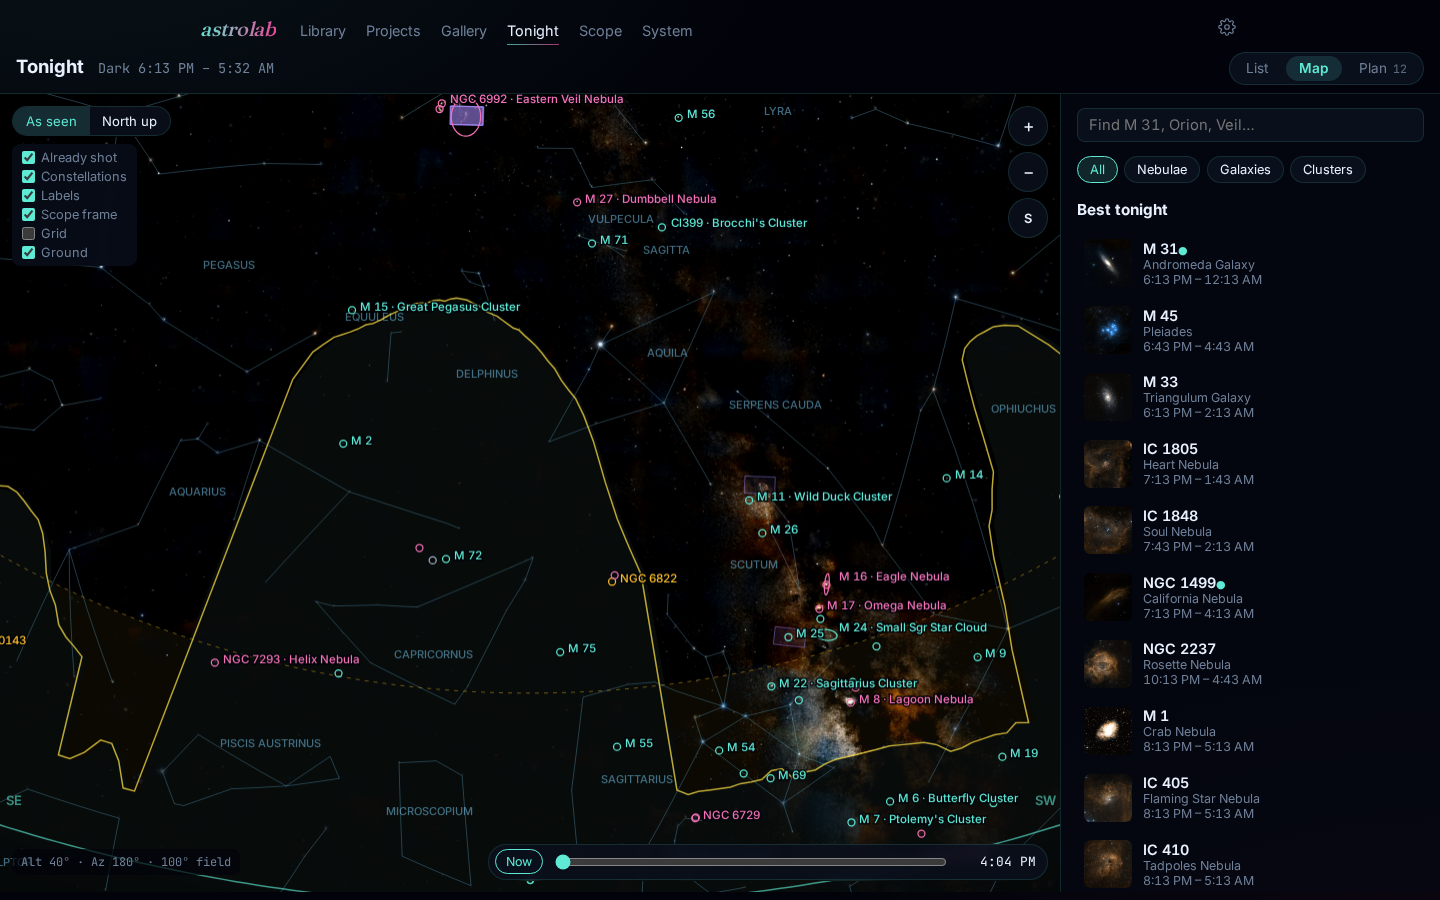
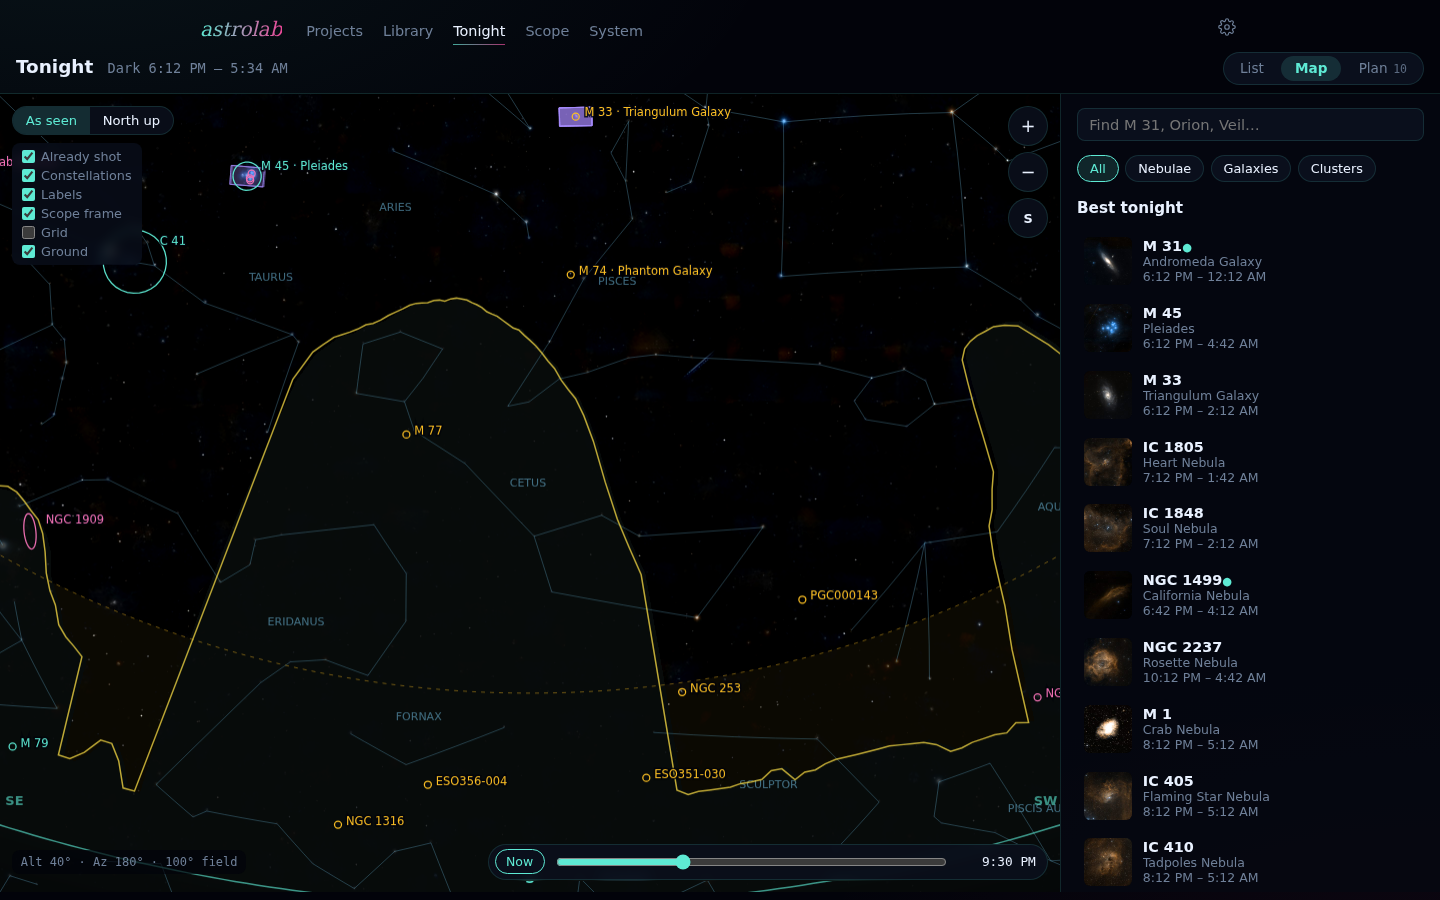
README: new screenshots and text for the editor, Library and Projects
The Processing section describes the editor (Looks, instant preview,
versions) instead of the old Quick sliders. Adds Library and editor
screenshots, retakes Projects and the sky map. Also keeps tall pictures
from stretching Last night cards.

diff --git a/ui/src/lib/LastNight.svelte b/ui/src/lib/LastNight.svelte
@@ -224,8 +224,12 @@
     display: block;
     aspect-ratio: 4 / 3;
     background: var(--bg-elev-2);
+    overflow: hidden;
   }
   .pic img {
+    /* Out of flow, so a tall picture can't stretch the 4:3 box. */
+    position: absolute;
+    inset: 0;
     width: 100%;
     height: 100%;
     object-fit: cover;

diff --git a/README.md b/README.md
@@ -12,7 +12,7 @@ astrolab is a self-hosted web app I use to run a DWARF 3 that sits outside on a 
 
 The scope connection goes through a small relay service ([dwarf-relay](https://github.com/bscholer/dwarf-relay)), so the DWARF 3 is the only scope it can control right now. Processing works on FITS files from other capture programs too (see [Other scopes](#other-scopes)).
 
-<img src="docs/screenshots/last-night.png" alt="Home page: last night's card with good, rescued and junk time per target, and before/after sliders for updated masters" width="720" />
+<img src="docs/screenshots/projects.png" alt="Projects page: last night's totals and what each target's master gained, above a grid of project pictures" width="720" />
 
 ## Capture
 
@@ -40,15 +40,19 @@ Each night is calibrated with matching darks, flats and bias, plate solved again
 
 The Projects page opens with how last night went: what each target added to its master. Each master's Details tab estimates how many more hours it would take to cut the noise by a third, and that estimate goes back into the plan.
 
+<img src="docs/screenshots/library.png" alt="Library page: a card per target with its newest picture, total integration, sessions and the share of frames kept" width="720" />
+
+The Library page has a card per target with its total time and how many frames were kept. A card opens the target's sessions, where you can start a new project from any of them. The Storage tab shows what's taking up space on the NAS.
+
 ## Processing
 
-<img src="docs/screenshots/project.png" alt="Project page: Triangulum Galaxy master with Quick sliders and the history strip" width="720" />
+<img src="docs/screenshots/editor.png" alt="Editor: California Nebula with palette and style cards rendered on the picture itself" width="720" />
 
-Each target opens with a handful of sliders: brightness, dark sky, noise reduction, color strength, green removal and stars. There's also HOO color for duo-band data and a crop tool. GraXpert handles gradient removal and denoising, and StarNet++ shrinks or removes stars.
+Each project opens in an editor with six tools: Looks, Crop, Light, Color, Detail and Versions. Looks are one-tap starting points, each shown on your own picture. Duo-band data gets color palettes (HOO, gold and azure, and a few more), and every target gets styles like Vivid or Faint detail. The other tools have a few sliders each: brightness, background, contrast, highlights and shadows; H-alpha and OIII colors and saturation; stars, sharpening and noise reduction. GraXpert handles gradient removal and denoising, and StarNet++ shrinks or removes stars.
 
-Each render is saved to a history strip, where you can undo, branch, and compare two versions side by side. You can export a full-size PNG, or the linear stack as FITS if you'd rather finish somewhere else.
+Most sliders update the picture right away. A preview is rendered on the server from the stack as you drag, and the full-size render follows when you stop. Edits made in one sitting are saved as one version. Versions lets you go back, branch, and compare two of them, and the Compare button shows before and after side by side. You can export a full-size PNG, or the linear stack as FITS if you'd rather finish somewhere else.
 
-Under the hood it's a pipeline of cached steps, so moving a slider doesn't redo calibration or stacking. Most edits come back in a few seconds.
+Under the hood it's a pipeline of cached steps, so the full render after an edit doesn't redo calibration or stacking. Most come back in a few seconds; a crop takes longer, since every step after it runs again.
 
 I don't want the app editing pictures with AI, so it doesn't. The [roadmap](docs/roadmap.md) has more on where this is going.
 

diff --git a/docs/screenshots/README.md b/docs/screenshots/README.md
@@ -1,11 +1,12 @@
 # Screenshots used in the README
 
-Referenced by `<img>` tags in `README.md`. Dark mode, 1440x900 browser, the site's own time zone.
+Referenced by `<img>` tags in `README.md`. Dark mode, 1440x900 browser, the site's own time zone (America/Los_Angeles). `scope.png` is cropped to 1440x720.
 
-- `last-night.png` - Home page, last night's card with at least one updated master.
+- `projects.png` - Projects page with the Last night strip (shows when the night was yesterday or tonight).
+- `library.png` - Library, Targets tab.
+- `editor.png` - A duo-band project's Edit tab on Looks, so the palettes show.
 - `sky-map.png` - Tonight, Map view.
 - `plan.png` - Tonight, Plan view with Run all night on and a mosaic in the list.
-- `project.png` - A target master project with the Quick panel and history strip.
 - `scope.png` - Top of the Scope page: status and the live stack.
 
 Keep the yard out of public screenshots: the Surroundings panorama and the live wide camera show the house and neighbours. Settings shows the site's coordinates.
